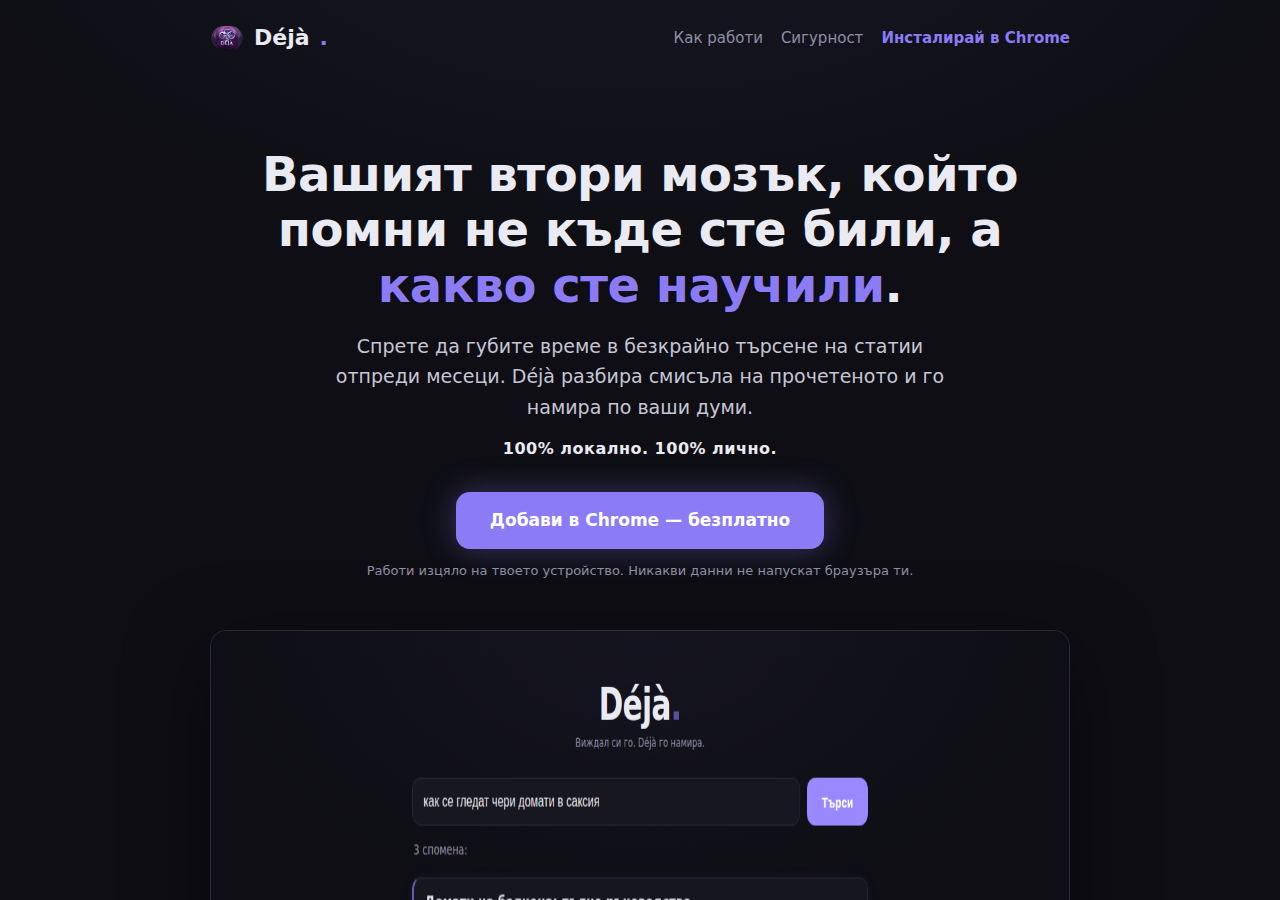
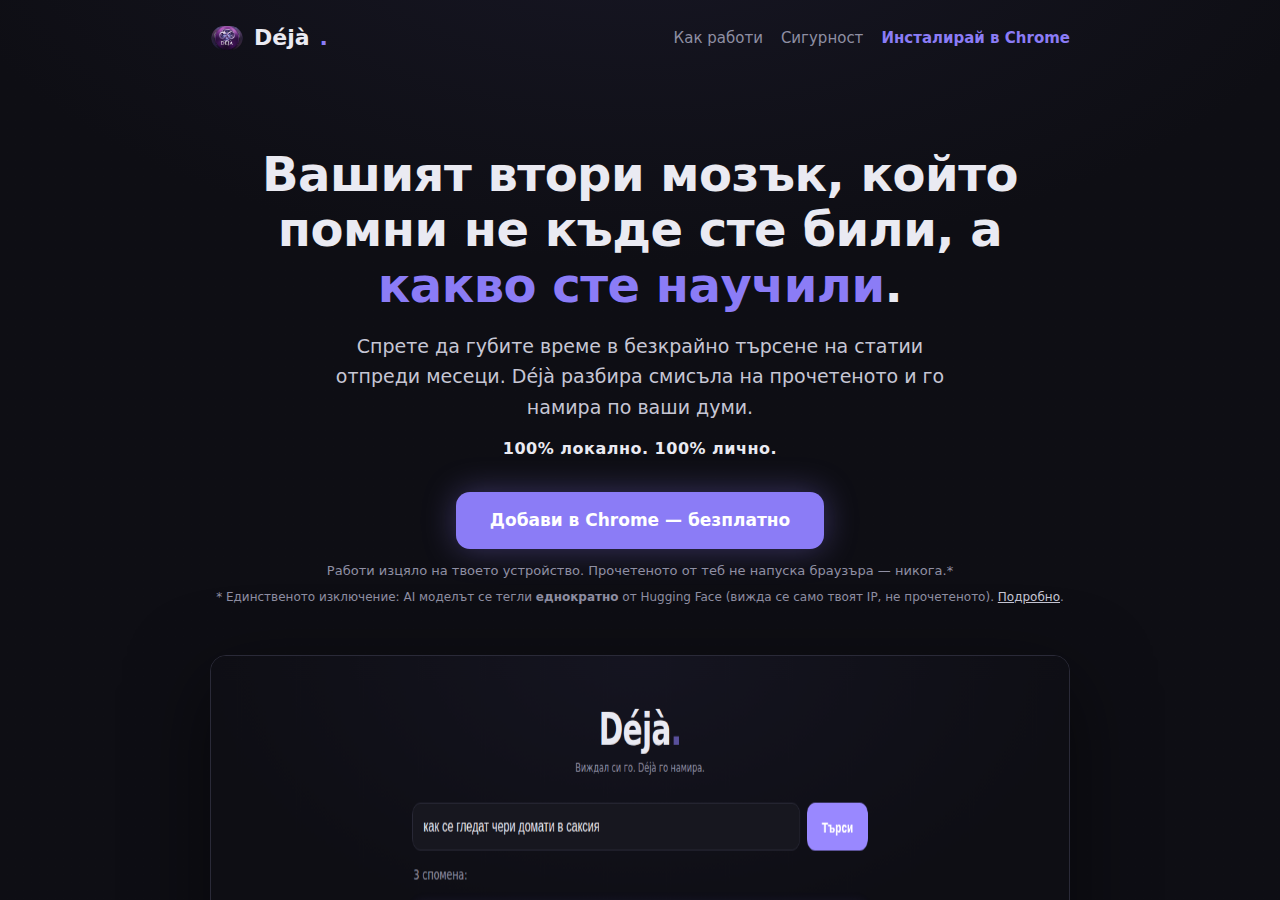
deja: пазарна готовност — финален агентски одит (5 агента)
Кодаджията + Хромаджията (надеждност):
- embedInFlight брояч: GC-то вече не може да затвори offscreen по средата
  на дълъг embed (първо търсене със студено теглене на модела); idle
  часовникът тръгва СЛЕД работата
- tok маркер в pending: drain-ът не затрива по-нова версия на същата
  страница, пристигнала по време на дълго индексиране (TOCTOU)

Правния Разбирач (landing честност — UCPD/CWS deceptive):
- „Никакви данни не напускат“ → скопирано към прочетеното + звездичка за
  еднократното HF теглене (IP)
- „Пароли... никога“ → честно: вграден списък по адрес + свои шаблони
- импресум ред във footer-а (TODO адрес/имейл), noscript fallback за
  .surface, :focus-visible стилове

SEO (нула → пълен пакет):
- canonical, OG/Twitter карти + og-cover.png (1200×630), theme-color
- JSON-LD: Organization + WebSite + SoftwareApplication (+FAQPage)
- answer-first секция „Какво е Déjà?“ + FAQ секция (дословно = схемата)
- robots.txt (AI ботове explicit), sitemap.xml, llms.txt; canonical в
  privacy.html; lazy demo изображение; двусъставен title с ключови думи

Преводача: EN „Heads up:“ (тежестта на „Внимавай:“); 40/40 паритет потвърден

LISTING: CWS скрийншот правило (само 1280×800); e2e регресията минава;
release пакет: npm run zip → release/deja-0.3.0.zip

Claude-Session: https://claude.ai/code/session_01FAk4hVZMxR8cvpuBj6BMX7

Changed region(s): [[0.1875, 0.6222, 0.8438, 0.6844], [0.3125, 0.7467, 0.5625, 1.0], [0.625, 0.84, 0.6875, 0.9644]]

diff --git a/deja/server/index.html b/deja/server/index.html
@@ -3,12 +3,80 @@
   <head>
     <meta charset="utf-8" />
     <meta name="viewport" content="width=device-width, initial-scale=1" />
-    <title>Déjà — вторият мозък на браузъра ти</title>
+    <title>Déjà — вторият мозък на браузъра ти | семантично търсене в прочетеното</title>
     <meta
       name="description"
-      content="Déjà помни не къде си бил, а какво си научил. Семантично търсене в прочетеното — 100% локално, 100% лично."
+      content="Déjà помни не къде си бил, а какво си научил. Семантично търсене в прочетеното — обработката е 100% локална, данните са 100% твои."
     />
     <link rel="icon" type="image/png" href="icon.png" />
+    <link rel="canonical" href="https://deja.carbonstealth.eu/" />
+    <meta name="theme-color" content="#0e0e14" />
+    <meta name="robots" content="index, follow, max-image-preview:large" />
+
+    <!-- Open Graph -->
+    <meta property="og:type" content="website" />
+    <meta property="og:site_name" content="Déjà" />
+    <meta property="og:locale" content="bg_BG" />
+    <meta property="og:url" content="https://deja.carbonstealth.eu/" />
+    <meta property="og:title" content="Déjà — семантично търсене в прочетеното, изцяло на твоето устройство" />
+    <meta
+      property="og:description"
+      content="Chrome разширение, което помни не къде си бил, а какво си научил. Търси в историята на браузъра си на човешки език — без cloud, без телеметрия."
+    />
+    <meta property="og:image" content="https://deja.carbonstealth.eu/og-cover.png" />
+    <meta property="og:image:width" content="1200" />
+    <meta property="og:image:height" content="630" />
+    <meta property="og:image:alt" content="Déjà намира стара статия по смисъла ѝ, а не по ключова дума." />
+
+    <!-- Twitter/X -->
+    <meta name="twitter:card" content="summary_large_image" />
+    <meta name="twitter:title" content="Déjà — семантично търсене в прочетеното, изцяло на твоето устройство" />
+    <meta name="twitter:description" content="Търси в историята на браузъра си на човешки език. Локална обработка, 0% cloud." />
+    <meta name="twitter:image" content="https://deja.carbonstealth.eu/og-cover.png" />
+
+    <script type="application/ld+json">
+      {
+        "@context": "https://schema.org",
+        "@graph": [
+          {
+            "@type": "Organization",
+            "@id": "https://deja.carbonstealth.eu/#org",
+            "name": "Carbon Stealth VCC",
+            "url": "https://carbonstealth.eu",
+            "sameAs": ["https://carbonstealth.eu"]
+          },
+          {
+            "@type": "WebSite",
+            "@id": "https://deja.carbonstealth.eu/#website",
+            "url": "https://deja.carbonstealth.eu/",
+            "name": "Déjà",
+            "inLanguage": "bg",
+            "publisher": { "@id": "https://deja.carbonstealth.eu/#org" }
+          },
+          {
+            "@type": "SoftwareApplication",
+            "@id": "https://deja.carbonstealth.eu/#app",
+            "name": "Déjà",
+            "url": "https://deja.carbonstealth.eu/",
+            "applicationCategory": "BrowserApplication",
+            "operatingSystem": "Chrome, Brave, Edge, Chromium",
+            "inLanguage": "bg",
+            "description": "Chrome разширение за семантично търсене в историята на браузъра. Индексира текста на прочетените страници локално и позволява търсене на човешки език. Обработката е изцяло на устройството — прочетеното не напуска браузъра.",
+            "featureList": [
+              "Семантично търсене по смисъл, не по ключова дума",
+              "Локална обработка, без cloud и телеметрия",
+              "Многоезично търсене (50+ езика)",
+              "Автоматично забравяне и списък за изключени сайтове"
+            ],
+            "offers": { "@type": "Offer", "price": "0", "priceCurrency": "EUR" },
+            "screenshot": "https://deja.carbonstealth.eu/demo.png",
+            "installUrl": "https://chrome.google.com/webstore",
+            "publisher": { "@id": "https://deja.carbonstealth.eu/#org" },
+            "isPartOf": { "@id": "https://deja.carbonstealth.eu/#website" }
+          }
+        ]
+      }
+    </script>
     <style>
       :root {
         --bg: #0e0e14;
@@ -355,7 +423,20 @@
           transition: none;
         }
       }
+
+      nav a:hover,
+      nav a:focus-visible,
+      footer a:hover {
+        text-decoration: underline;
+      }
+
+      .btn:focus-visible,
+      nav a:focus-visible {
+        outline: 2px solid var(--accent);
+        outline-offset: 3px;
+      }
     </style>
+    <noscript><style>.surface{opacity:1 !important;transform:none !important}</style></noscript>
   </head>
   <body>
     <div class="wrap">
@@ -378,14 +459,33 @@
         <p class="local">100% локално. 100% лично.</p>
         <!-- TODO: замени href с реалния Web Store линк след публикация -->
         <a class="btn" href="https://chrome.google.com/webstore">Добави в Chrome — безплатно</a>
-        <p class="note">Работи изцяло на твоето устройство. Никакви данни не напускат браузъра ти.</p>
+        <p class="note">Работи изцяло на твоето устройство. Прочетеното от теб не напуска браузъра — никога.*</p>
+        <p class="note" style="font-size: 12px; margin-top: 6px">
+          * Единственото изключение: AI моделът се тегли <b>еднократно</b> от Hugging Face (вижда
+          се само твоят IP, не прочетеното). <a href="/privacy" style="color: var(--soft)">Подробно</a>.
+        </p>
         <img
           class="demo surface"
           src="demo.png"
           alt="Déjà намира статията за домати на балкона по заявка „как се гледат чери домати в саксия“"
           width="1280"
           height="800"
+          loading="lazy"
+          decoding="async"
         />
+      </section>
+
+      <!-- Кратко определение за хора и AI (answer-first) -->
+      <section class="surface">
+        <h2>Какво е Déjà?</h2>
+        <p class="lead">
+          <b>Déjà е безплатно разширение за Chrome (и Brave, Edge, всеки Chromium браузър), което
+          превръща историята на браузъра ти в търсачка по смисъл.</b> Докато четеш, Déjà индексира
+          текста на страниците локално и после ги намира по това, което помниш — на човешки език,
+          а не по точно заглавие или URL. Целият анализ се случва на твоето устройство: никакъв
+          сървър, никаква телеметрия, никакъв cloud. Работи на 50+ езика — питаш на български,
+          дори статията да е била на английски.
+        </p>
       </section>
 
       <!-- The Problem -->
@@ -485,7 +585,10 @@
           </div>
           <div class="card">
             <h3>Интелигентни филтри</h3>
-            <p>Пароли, чатове, банкови страници и имейли никога не се индексират.</p>
+            <p>
+              Страниците за вход, поща, чат, банкиране и плащания се пропускат автоматично
+              (вграден списък по адрес). Можеш да добавиш и свои.
+            </p>
           </div>
         </div>
       </section>
@@ -513,6 +616,39 @@
         </div>
       </section>
 
+      <!-- FAQ (текстът е дословно същият като FAQPage схемата по-долу) -->
+      <section class="surface">
+        <h2>Често задавани въпроси</h2>
+        <div class="cards">
+          <div class="card">
+            <h3>Как да търся в историята си по смисъл?</h3>
+            <p>
+              Отваряш Déjà и пишеш каквото помниш с думи прости — напр. „статия за евтина
+              алтернатива на литиевите батерии“. Déjà сравнява заявката с прочетеното по значение
+              и връща най-близката страница, дори тези думи да не се срещат в нея.
+            </p>
+          </div>
+          <div class="card">
+            <h3>Déjà изпраща ли данните ми в облак?</h3>
+            <p>
+              Не. Целият текст, индексът и търсенето живеят само в твоя браузър. Няма сървър, няма
+              телеметрия. AI моделът се тегли еднократно и после работи офлайн.
+            </p>
+          </div>
+          <div class="card">
+            <h3>Безплатно ли е и на кои браузъри работи?</h3>
+            <p>Напълно безплатно. Работи на Chrome, Brave, Edge и всеки Chromium-базиран браузър.</p>
+          </div>
+          <div class="card">
+            <h3>На какви езици работи търсенето?</h3>
+            <p>
+              На 50+ езика. Можеш да търсиш на български статия, която си чел на английски — Déjà
+              разбира смисъла между езиците.
+            </p>
+          </div>
+        </div>
+      </section>
+
       <!-- Final CTA -->
       <section id="cta" class="final surface">
         <h2>Спрете да търсите. Започнете да намирате.</h2>
@@ -529,10 +665,52 @@
       <footer>
         © 2026 Déjà · Личната ви информация си остава ваша. ·
         <a href="/privacy">Политика за поверителност</a><br />
+        <!-- TODO преди публикация: попълни регистриран адрес, рег. № и имейл (Дир. 2000/31 чл. 5) -->
+        Издател: <b>Carbon Stealth VCC</b> · <a href="https://carbonstealth.eu">Контакти</a><br />
         Създаден от <a href="https://carbonstealth.eu">Carbon Stealth VCC</a>
       </footer>
     </div>
 
+    <script type="application/ld+json">
+      {
+        "@context": "https://schema.org",
+        "@type": "FAQPage",
+        "mainEntity": [
+          {
+            "@type": "Question",
+            "name": "Как да търся в историята си по смисъл?",
+            "acceptedAnswer": {
+              "@type": "Answer",
+              "text": "Отваряш Déjà и пишеш каквото помниш с думи прости — напр. „статия за евтина алтернатива на литиевите батерии“. Déjà сравнява заявката с прочетеното по значение и връща най-близката страница, дори тези думи да не се срещат в нея."
+            }
+          },
+          {
+            "@type": "Question",
+            "name": "Déjà изпраща ли данните ми в облак?",
+            "acceptedAnswer": {
+              "@type": "Answer",
+              "text": "Не. Целият текст, индексът и търсенето живеят само в твоя браузър. Няма сървър, няма телеметрия. AI моделът се тегли еднократно и после работи офлайн."
+            }
+          },
+          {
+            "@type": "Question",
+            "name": "Безплатно ли е и на кои браузъри работи?",
+            "acceptedAnswer": {
+              "@type": "Answer",
+              "text": "Напълно безплатно. Работи на Chrome, Brave, Edge и всеки Chromium-базиран браузър."
+            }
+          },
+          {
+            "@type": "Question",
+            "name": "На какви езици работи търсенето?",
+            "acceptedAnswer": {
+              "@type": "Answer",
+              "text": "На 50+ езика. Можеш да търсиш на български статия, която си чел на английски — Déjà разбира смисъла между езиците."
+            }
+          }
+        ]
+      }
+    </script>
     <script>
       // „изплуване“ при скрол — уважава prefers-reduced-motion (CSS-ът го изключва)
       const io = new IntersectionObserver(

diff --git a/deja/src/background.js b/deja/src/background.js
@@ -18,6 +18,9 @@ const MONTH_MS = 30 * 24 * 60 * 60 * 1000;
 // --- offscreen документ (там живее моделът) ---
 
 let creating = null;
+// In-memory е безопасно: отвореният Port държи SW жив през целия embed —
+// ако SW умре, няма in-flight embed за пазене.
+let embedInFlight = 0;
 
 async function ensureOffscreen() {
   const contexts = await chrome.runtime.getContexts({
@@ -49,23 +52,29 @@ async function ensureOffscreen() {
 async function embed(texts) {
   await ensureOffscreen();
   const { modelHost } = await getSettings();
-  await chrome.storage.local.set({ lastEmbedAt: Date.now() });
-  return new Promise((resolve, reject) => {
-    const port = chrome.runtime.connect({ name: 'deja-embed' });
-    let settled = false;
-    port.onMessage.addListener((res) => {
-      settled = true;
-      port.disconnect();
-      if (res?.ok) resolve(res.vectors.map((v) => new Float32Array(v)));
-      else reject(new Error(res?.error || 'embed се провали без отговор'));
+  embedInFlight++;
+  try {
+    return await new Promise((resolve, reject) => {
+      const port = chrome.runtime.connect({ name: 'deja-embed' });
+      let settled = false;
+      port.onMessage.addListener((res) => {
+        settled = true;
+        port.disconnect();
+        if (res?.ok) resolve(res.vectors.map((v) => new Float32Array(v)));
+        else reject(new Error(res?.error || 'embed се провали без отговор'));
+      });
+      port.onDisconnect.addListener(() => {
+        if (!settled) {
+          reject(new Error(chrome.runtime.lastError?.message || 'портът към offscreen се затвори'));
+        }
+      });
+      port.postMessage({ texts, modelHost: modelHost || null });
     });
-    port.onDisconnect.addListener(() => {
-      if (!settled) {
-        reject(new Error(chrome.runtime.lastError?.message || 'портът към offscreen се затвори'));
-      }
-    });
-    port.postMessage({ texts, modelHost: modelHost || null });
-  });
+  } finally {
+    embedInFlight--;
+    // idle часовникът на GC-то тръгва СЛЕД работата, не в началото ѝ
+    chrome.storage.local.set({ lastEmbedAt: Date.now() });
+  }
 }
 
 // --- индексиране ---
@@ -146,7 +155,9 @@ function mutatePending(fn) {
 
 function addPending(page) {
   return mutatePending((pending) => {
-    pending[urlKeyOf(page.url)] = { ...page, tries: 0 };
+    // tok = самоличност на записа: drain-ът пипа записа само ако е СЪЩАТА
+    // версия — иначе междувременно пристигнала v2 на страницата се затрива
+    pending[urlKeyOf(page.url)] = { ...page, tries: 0, tok: crypto.randomUUID() };
   });
 }
 
@@ -170,6 +181,7 @@ async function drainPending() {
       }
       let keptForLater = false;
       await mutatePending((fresh) => {
+        if (fresh[key]?.tok !== item.tok) return; // дошла е по-нова версия — не я пипай
         if (!failed) {
           delete fresh[key];
           return;
@@ -177,7 +189,7 @@ async function drainPending() {
         const tries = (fresh[key]?.tries || 0) + 1;
         if (tries >= MAX_INDEX_TRIES) delete fresh[key];
         else {
-          fresh[key] = { ...item, tries };
+          fresh[key] = { ...item, tries }; // item носи същия tok
           keptForLater = true;
         }
       });
@@ -288,6 +300,7 @@ async function pruneByRetention() {
 // Offscreen документ без AUDIO_PLAYBACK reason живее вечно → моделът държи
 // ~120MB RAM. Затваряме го след бездействие; следващият embed го пресъздава.
 async function closeIdleOffscreen() {
+  if (embedInFlight > 0) return; // тече дълъг embed (напр. студено теглене на модела)
   const contexts = await chrome.runtime.getContexts({
     contextTypes: ['OFFSCREEN_DOCUMENT'],
   });

diff --git a/deja/server/privacy.html b/deja/server/privacy.html
@@ -5,6 +5,7 @@
     <meta name="viewport" content="width=device-width, initial-scale=1" />
     <title>Déjà — Политика за поверителност</title>
     <link rel="icon" type="image/png" href="icon.png" />
+    <link rel="canonical" href="https://deja.carbonstealth.eu/privacy" />
     <style>
       :root {
         --bg: #0e0e14;

diff --git a/deja/store/LISTING.md b/deja/store/LISTING.md
@@ -1,7 +1,11 @@
 # Déjà — Chrome Web Store листинг
 
-Материали за качване в CWS Developer Dashboard. Скрийншотите са в
-`store/screenshots/` (1280×800). Пакетът: `npm run zip` → `release/deja-<версия>.zip`.
+Материали за качване в CWS Developer Dashboard. Пакетът: `npm run zip` →
+`release/deja-<версия>.zip`.
+
+**Скрийншоти:** CWS приема САМО 1280×800 или 640×400. Качи само трите валидни:
+`search-bg.png`, `options-bg.png`, `welcome-bg.png` (1280×800). `popup-bg`,
+`landing-*` са за друга употреба — НЕ ги качвай като store скрийншоти.
 
 ## Single purpose (за review-а, EN)
 
